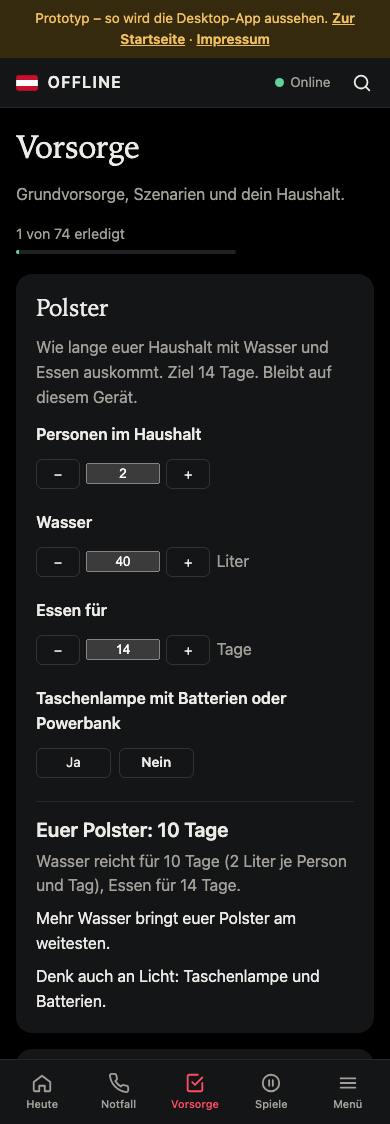
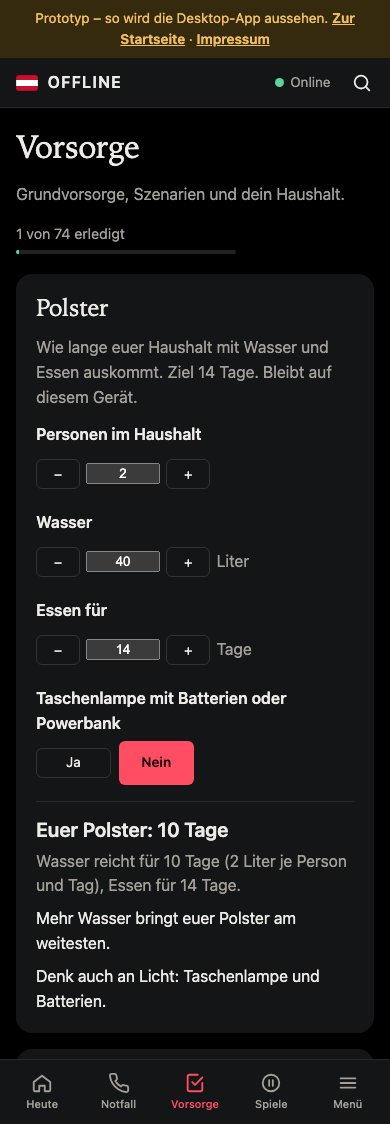
Nr. 34: gewählte Licht-Taste gefüllt in der Akzentfarbe (Kontrast 5,9:1 hell, 6,2:1 dunkel), Test und Bilder

Changed region(s): [[0.3077, 0.6539, 0.5231, 0.7162]]

diff --git a/web/styles.css b/web/styles.css
@@ -1000,6 +1000,8 @@ a.heute-polster:hover .heute-polster-titel, a.heute-polster:focus-visible .heute
 .polster-licht { display: flex; flex-wrap: wrap; gap: .5rem; }
 .polster-licht legend { width: 100%; margin-bottom: .3rem; }
 .polster-licht .btn { min-height: 44px; min-width: 5.5em; }
-.polster-licht .btn[aria-pressed="true"] { border-color: currentColor; font-weight: 600; }
+/* Gewählt deutlich gefüllt in der Akzentfarbe, Schrift in --accent-ink (Bill, 16.10.: Kontrast mindestens 4,5:1 hell und dunkel) */
+.polster-licht .btn.polster-gewaehlt, .of-app .polster-licht .btn.polster-gewaehlt { background: var(--accent); border-color: var(--accent); color: var(--accent-ink); font-weight: 600; }
+.of-app .polster-licht .btn.polster-gewaehlt::before { display: none; }
 .polster-ergebnis { margin-top: 1rem; padding-top: .8rem; border-top: 1px solid var(--line, rgba(127,127,127,.25)); }
 .polster-tage { font-size: 1.25rem; font-weight: 600; margin: 0; }

diff --git a/web/app.js b/web/app.js
@@ -233,7 +233,7 @@ function polsterHtml() {
       ${zahl("liter", "Wasser", r.liter, 5, 0, 5000, "Liter")}
       ${zahl("essen", "Essen für", r.essen, 1, 0, 365, "Tage")}
       <fieldset class="polster-feld polster-licht"><legend>Taschenlampe mit Batterien oder Powerbank</legend>
-        ${[[true, "Ja"], [false, "Nein"]].map(([w, t]) => `<button type="button" class="btn of-btn" data-polster-licht="${w}" aria-pressed="${r.licht === w}">${t}</button>`).join(" ")}</fieldset>
+        ${[[true, "Ja"], [false, "Nein"]].map(([w, t]) => `<button type="button" class="btn of-btn${r.licht === w ? " polster-gewaehlt" : ""}" data-polster-licht="${w}" aria-pressed="${r.licht === w}">${t}</button>`).join(" ")}</fieldset>
     </div>
     <div class="polster-ergebnis" role="status">
       <p class="polster-tage">${r.tage > 0 ? `Euer Polster: ${tageText(r.tage)}` : "Euer Polster wächst mit jedem Vorrat."}</p>

diff --git a/bill/rueckmeldung/2026-10-16-nr-34-polster.md b/bill/rueckmeldung/2026-10-16-nr-34-polster.md
@@ -1,0 +1,14 @@
+# Rückmeldung: Nr. 34 · Euer Polster
+
+**Von:** Code · **Datum:** 2026-10-16 · **Branch:** `nr-34-polster` · **Commits:** `32941ba` (Arbeit), `cef95f7` (Licht-Knöpfe, Bilder), `3583cd4` (Referenzbilder)
+
+1. **Prüferkette auf `3583cd4`:** `tests.yml` [38875053580](https://github.com/miksoda-cpu/OFFLINE/actions/runs/38875053580) grün, Windows-Probe [38875063570](https://github.com/miksoda-cpu/OFFLINE/actions/runs/38875063570) grün, Rundgang 360/390/1280 frisch und langjährig: 1560 Prüfungen, 0 gescheitert.
+2. **Heute:** „Euer Polster: N Tage“ mit „Wasser, Essen, Licht · Ziel 14 Tage“, bei 0 „Euer Polster wächst mit jedem Vorrat.“ und „Ersten Vorrat eintragen“; beides führt zu Vorsorge › Polster. Wortlaut wie verlangt: JA. Keine Angst-Wörter (Test).
+3. **Vorsorge › Polster** oben: Personen, Wasser (Liter), Essen (Tage) mit Plus/Minus und Tastatur, Licht Ja/Nein; Rechnung und Sätze nach Auftrag (`web/polster.js`). Personen-Vorgabe 1: Der Haushalt kennt nur Merkmale (Kinder, Ältere …), keine Zahl.
+4. **Bereit:** ab 14 Wasser-/Essen-Tagen sind Trinkwasser/Lebensmittel abgehakt und bestätigt, Licht Ja die Taschenlampen. Häkchen von Hand bleiben immer; das Polster nimmt nur zurück, was es selbst gesetzt hat. Update von 0.9.1 behält alle Häkchen: JA (Test gegen Tag `v0.9.1`).
+5. **„Neue Inhalte für N Tage“** unter Updates & Abo, nicht mehr auf Heute. Suche findet „Polster“. Alles bleibt am Gerät (`polster`, `polster-auto`).
+6. **Tests, ohne die Änderung rot:** `werkzeug/polster.test.mjs` (a–d, Update), `web/polster.test.mjs`. Windows-Probe prüft die Polster-Zeile statt der Vorrat-Zeile, gleich streng.
+7. **Bildvergleich:** 14 Abweichungen, alle gewollt (Heute, Vorsorge, Updates & Abo, Hilfe-Blatt über Vorsorge); Referenzen aus Lauf 38874447950.
+8. **Darf nicht:** Test gelockert NEIN · neue Adresse NEIN · Angst-Wörter NEIN. Nicht zusammengeführt; Version bleibt 0.9.1 bis zu Miks Wort für 0.9.2.
+
+Bilder: `bill/rueckmeldung/bilder/2026-10-16-nr-34/` (Heute mit 0 und 10 Tagen, Vorsorge › Polster, 390 px hell und dunkel).
